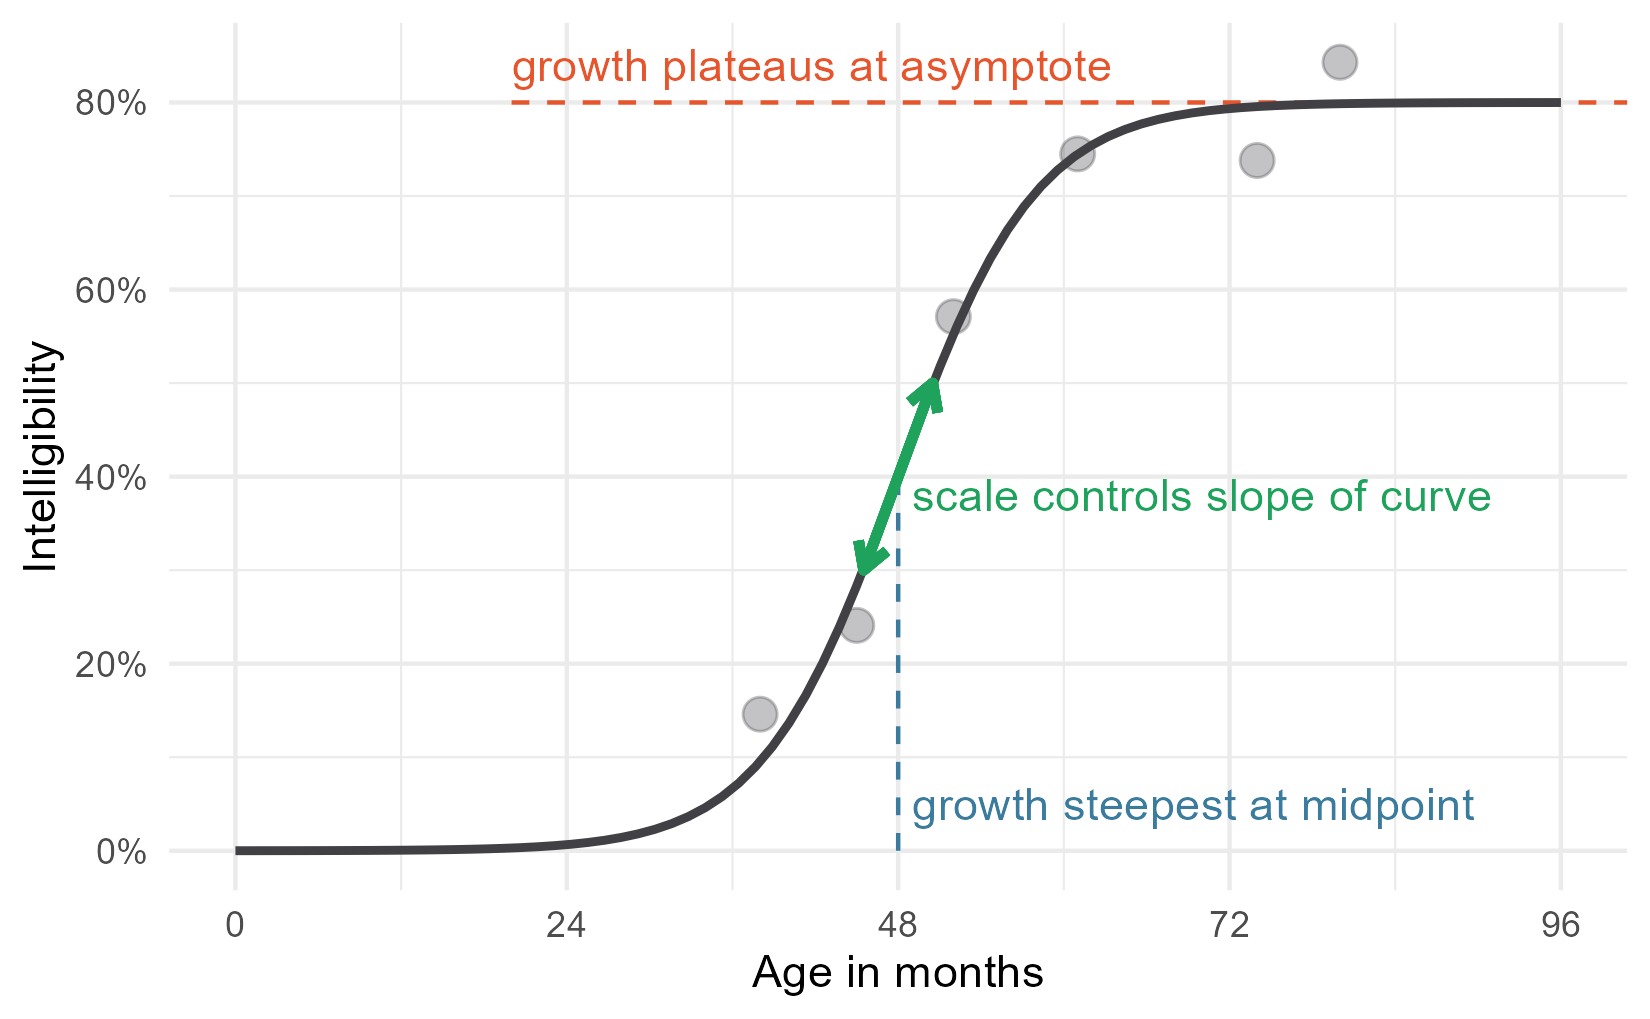
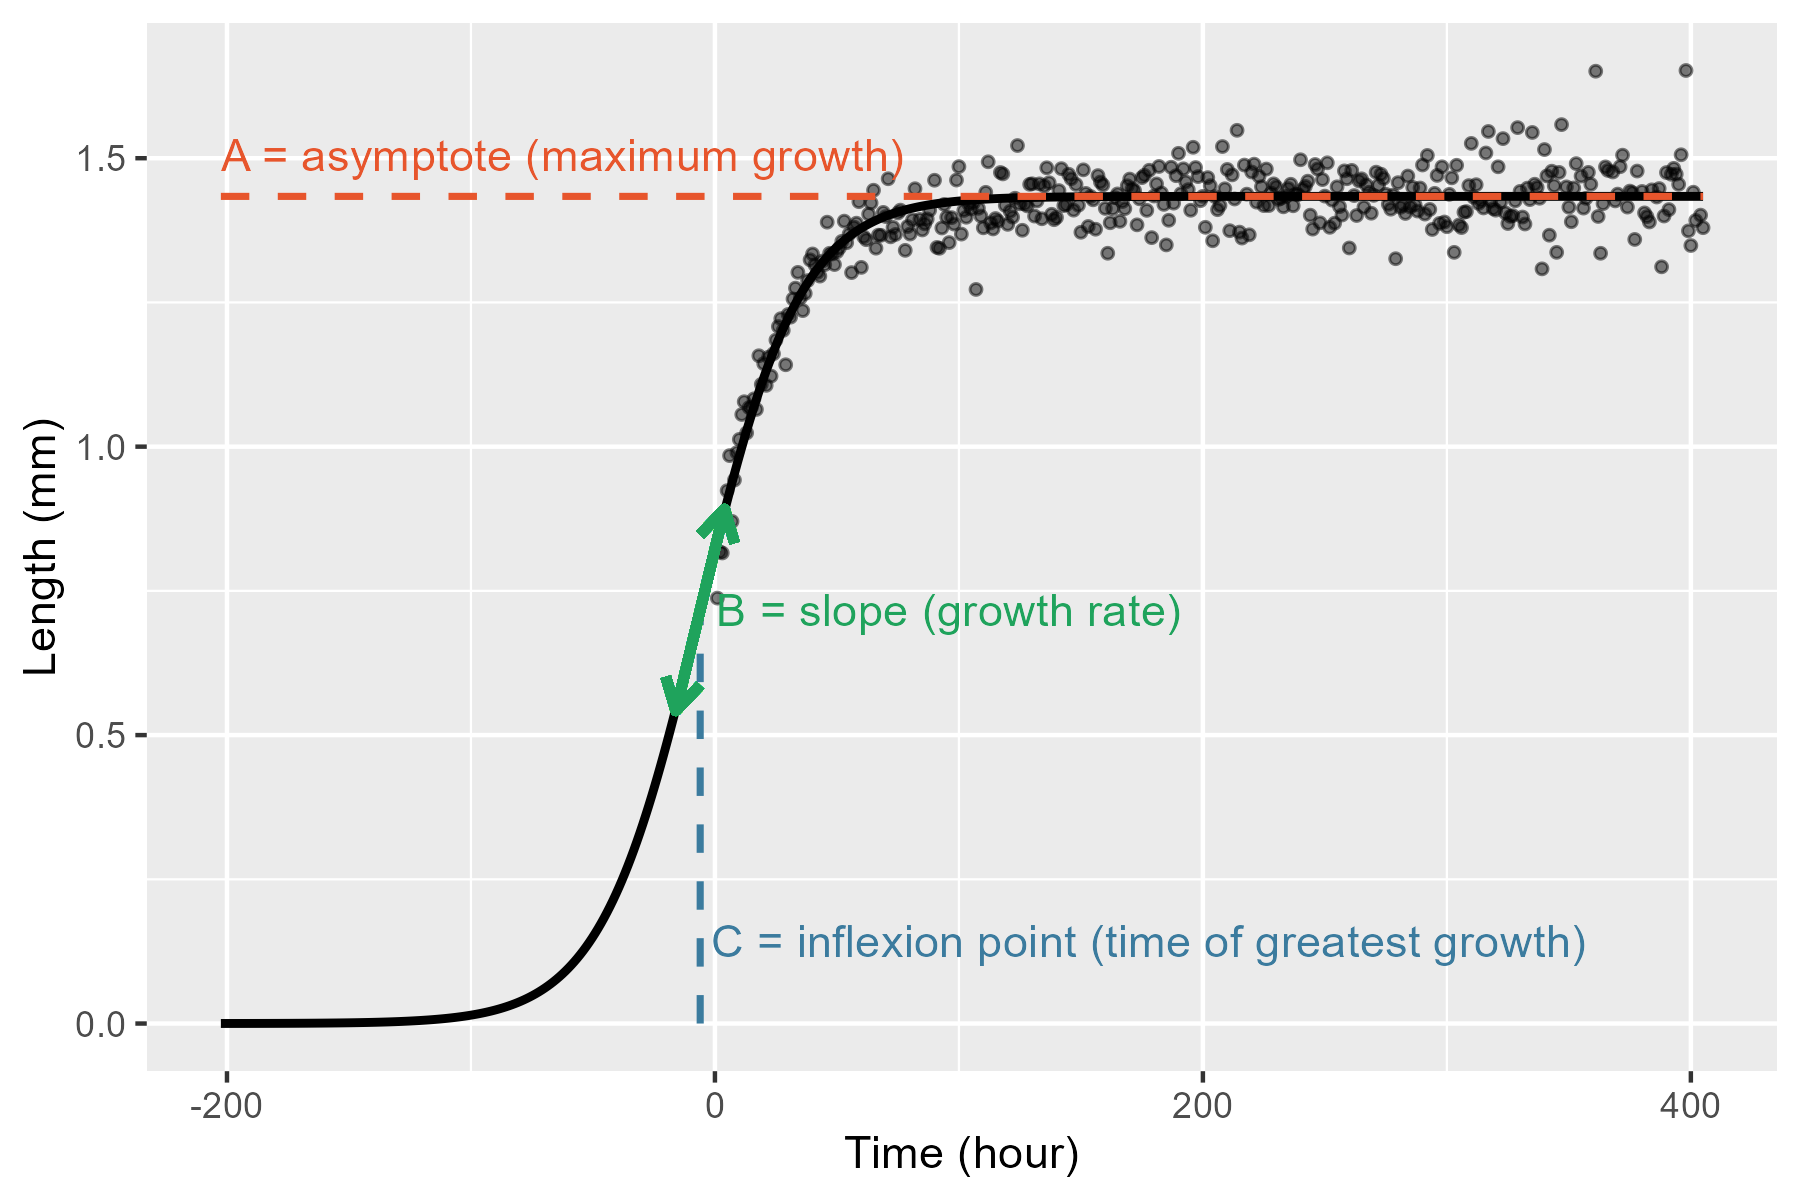
Improve sigmoid figure

diff --git a/README.md b/README.md
@@ -116,13 +116,10 @@ $$\text{growth}(t) = \dfrac{A}{1 + e^{-B(t - C)}}$$
 <div align="center">
   <img src="documentation/images/sigmoid.png" alt="sigmoid curve" width="70%">
   
-  *By Tristan Mahr (@tjmahr in Github)*
+  *Adapted from figure by Tristan Mahr (@tjmahr on GitHub)*
 </div>
 
-where:
-- $A$, orange: upper asymptote = maximum nematode growth
-- $B$, green: slope = growth rate
-- $C$, blue: inflexion point = time where the rate of growth is greatest (variations shift the curve along the x axis without changing shape). 
+where variations in $C$ shift the curve along the x axis without changing shape.
 
 Sometimes it is difficult for the model to converge, in which case the script will stop with a warning:
 >One of the area/length/volume models is NULL, please rerun with a different C_start (try value_for_c = 40)